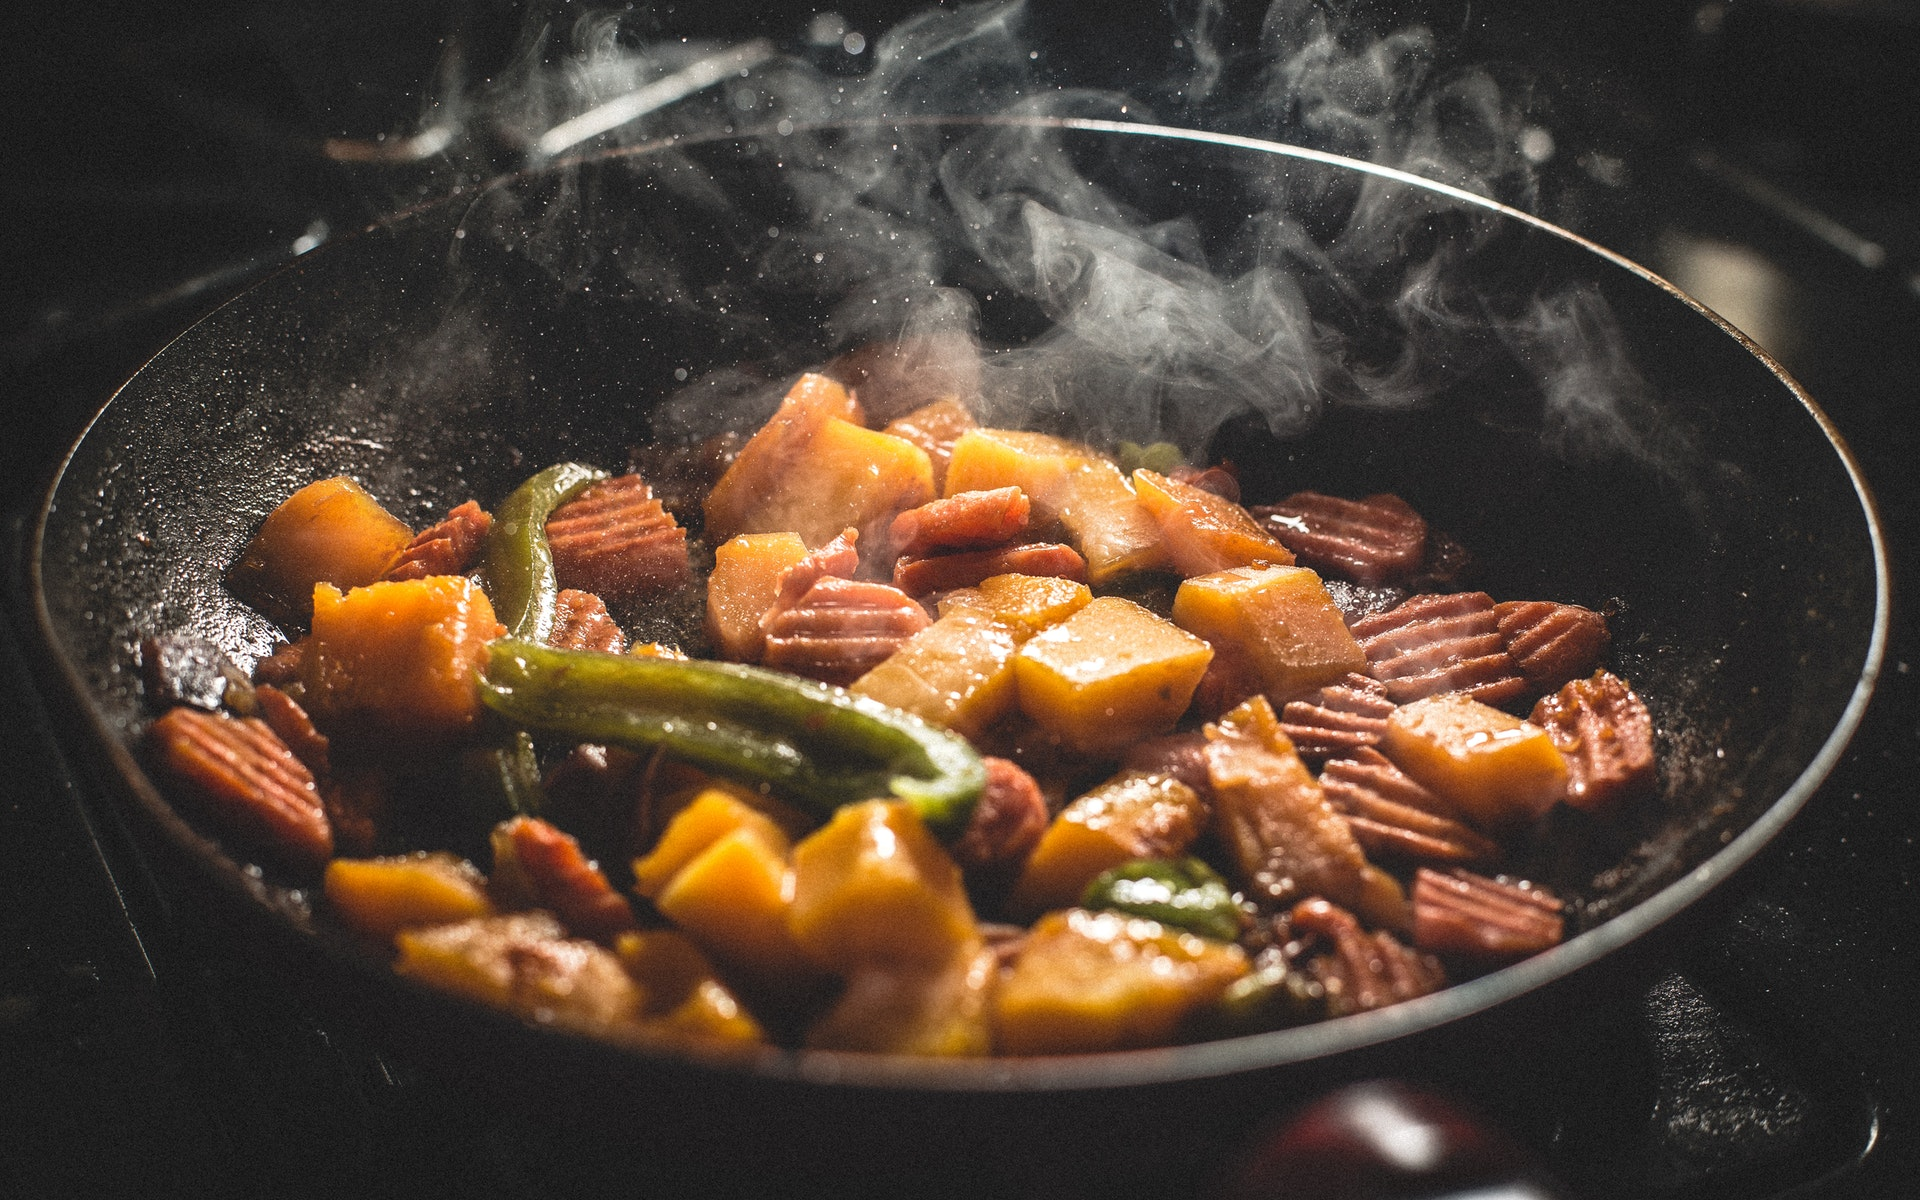
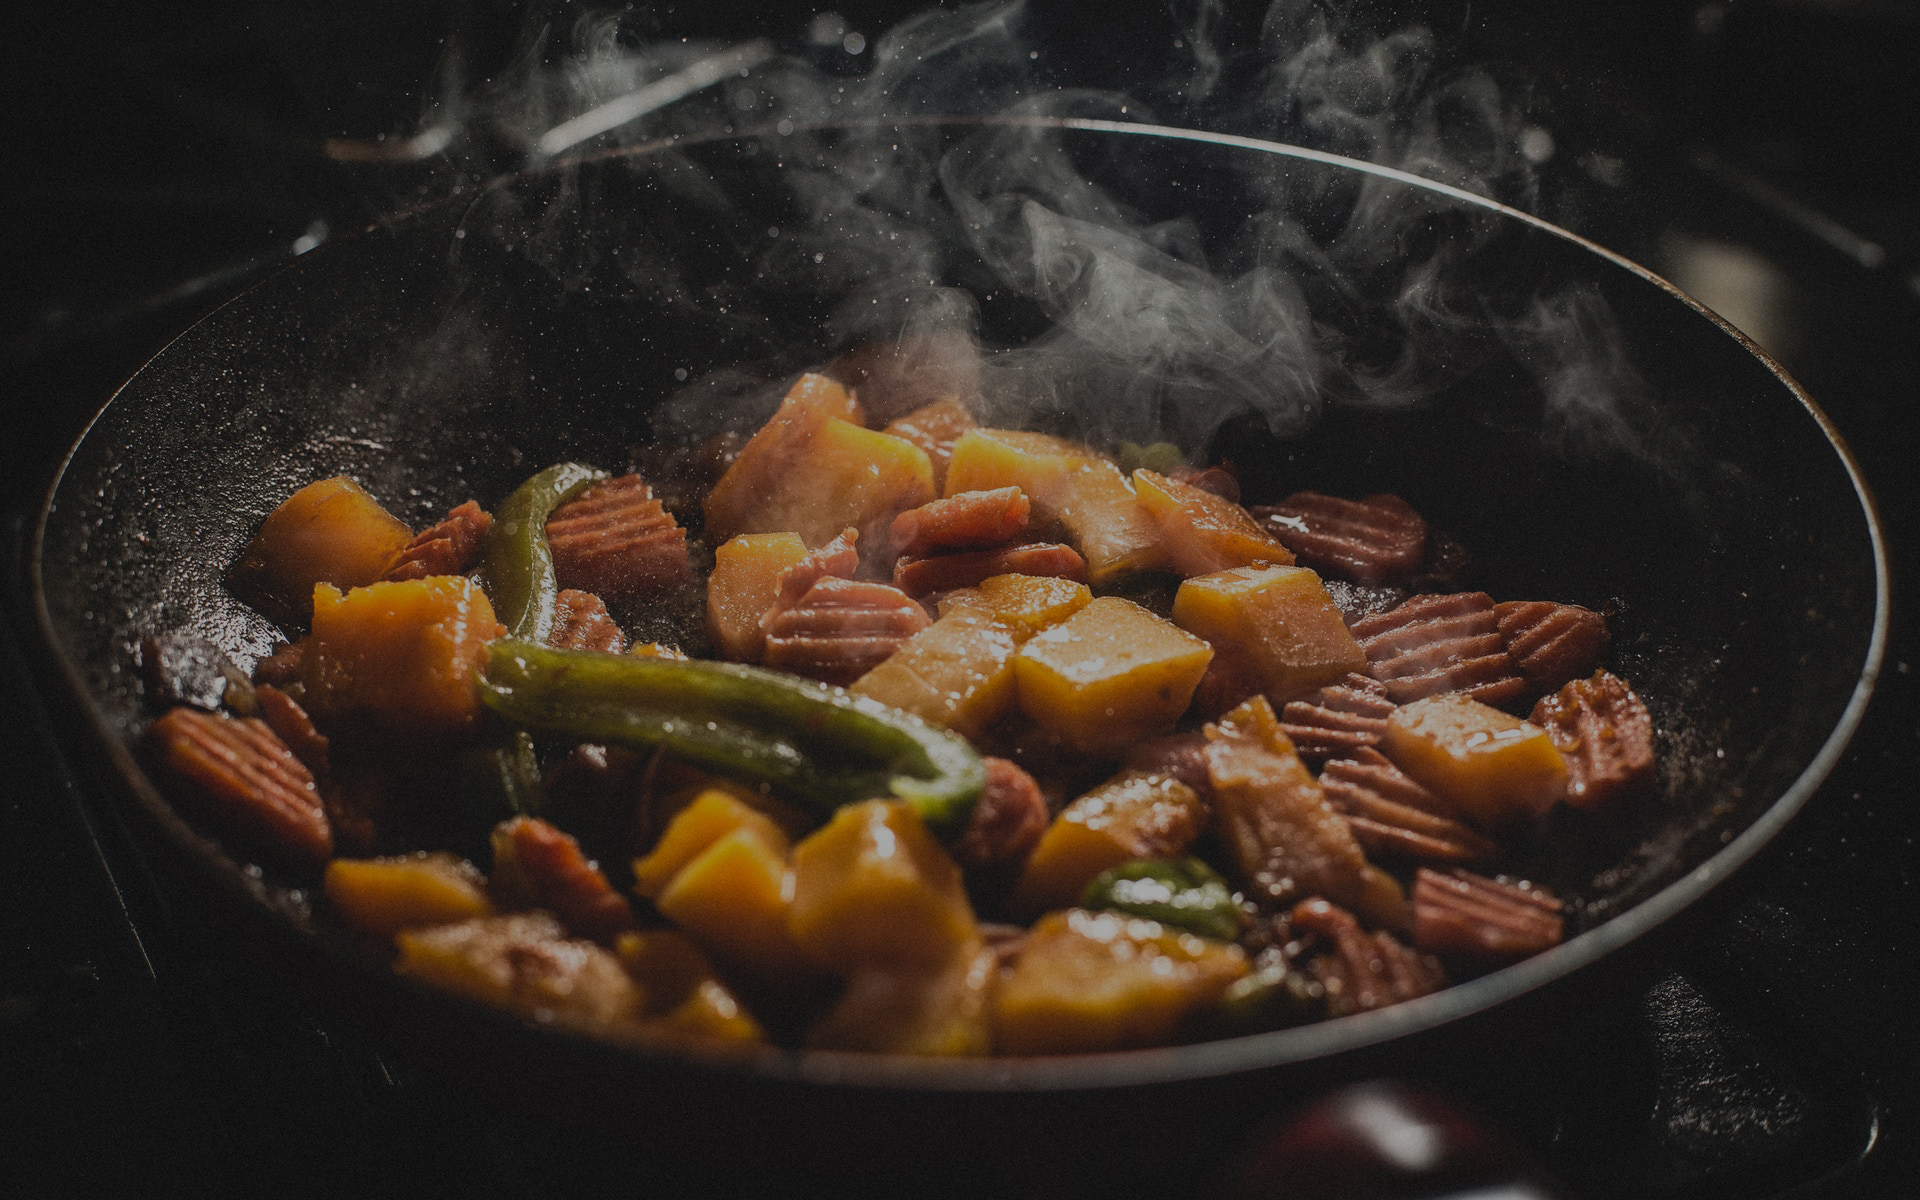
added overlay to carousel images, carousel typography

diff --git a/index.html b/index.html
@@ -78,8 +78,8 @@
 					<img class="img-fluid" src="img/carousel/personal.jpeg">
 					<div class="carousel-caption">
 						<h3>Catering Personal</h3>
-						<p>Malas masak? Jadwal padat? Kami siap bantu.</p>
-						<p>Menu | Pesan</p>
+						<p>Malas masak? Jadwal padat? Kami bantu.</p>
+						<p>Lihat Menu | Pesan Sekarang</p>
 					</div>
 				</div>
 				<div class="carousel-item">
@@ -87,7 +87,7 @@
 					<div class="carousel-caption">
 						<h3>Catering Karyawan</h3>
 						<p>Makanan lezat, kerja jadi semangat.</p>
-						<p>Menu | Pesan</p>
+						<p>Lihat Menu | Pesan Sekarang</p>
 					</div>
 				</div>
 				<div class="carousel-item">
@@ -95,7 +95,7 @@
 					<div class="carousel-caption">
 						<h3>Catering Acara</h3>
 						<p>Menu spesial di hari spesial.</p>
-						<p>Menu | Pesan</p>
+						<p>Lihat Menu | Pesan Sekarang</p>
 					</div>
 				</div>
 			</div>
@@ -109,14 +109,15 @@
 
 	<section id="orderNow">
 		<div class="container">
-			<h2 class="p-5" style="text-align: center;">Order Now</h2>
+			<h2 class="p-5" style="text-align: center;">Pesan Sekarang</h2>
 			<form>
 				<div class="form-group">
 					<input type="text" class="form-control" placeholder="Nama"><br>
 					<input type="email" class="form-control" placeholder="Email"><br>
-					<textarea class="form-control" rows="5" placeholder="Pesan"></textarea><br>
+					<input type="text" class="form-control" placeholder="No. HP"><br>
+					<textarea class="form-control" rows="5" placeholder="Pesanan"></textarea><br>
 				</div>
-				<button type="submit" class="btn btn-dark">Submit</button>
+				<button type="submit" class="btn btn-dark">Pesan</button>
 			</form>
 		</div>
 	</section>
